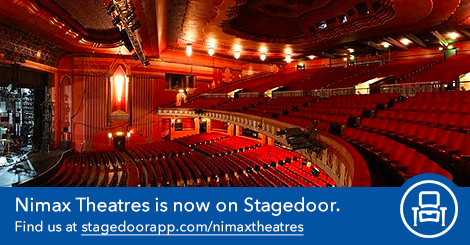
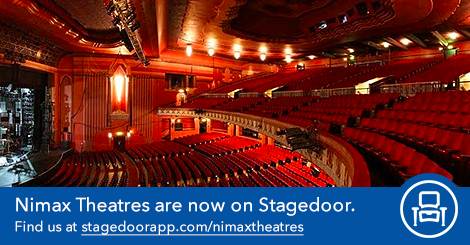
copy change for nimax

Changed region(s): [[0.3277, 0.8, 0.7447, 0.8857]]

diff --git a/nimaxtheatres.html b/nimaxtheatres.html
@@ -63,7 +63,7 @@
           <h2 class="block--inline  padding--left-one-space">Stagedoor</h2>
         </header>
 
-        <h1 class="padding--top-bottom-one-space">Nimax Theatres is now officially on Stagedoor.</h1>
+        <h1 class="padding--top-bottom-one-space">Nimax Theatres are now officially on Stagedoor.</h1>
         <h2><a href="https://stagedoor.hoko.link/nimaxtheatres" class="appstore-link  no-link-colour" title="Download Stagedoor">Follow Nimax Theatres&rsquo; page</a> to stay up to date with current and upcoming shows.</h2><br/>
         <h3>View behind the scenes photos and videos, get their latest news, and always be in the know!</h3>
         <p class="text--bigger  margin--top-two-spaces">
